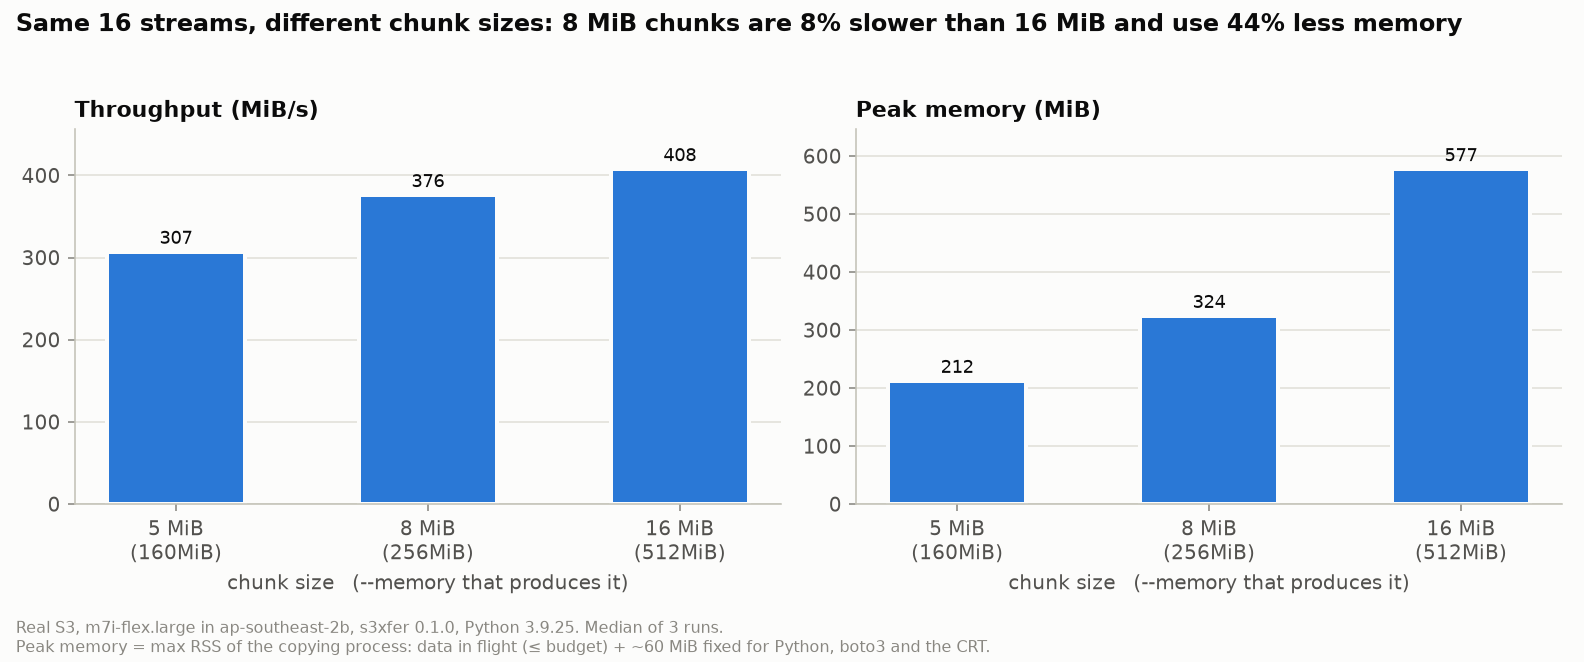
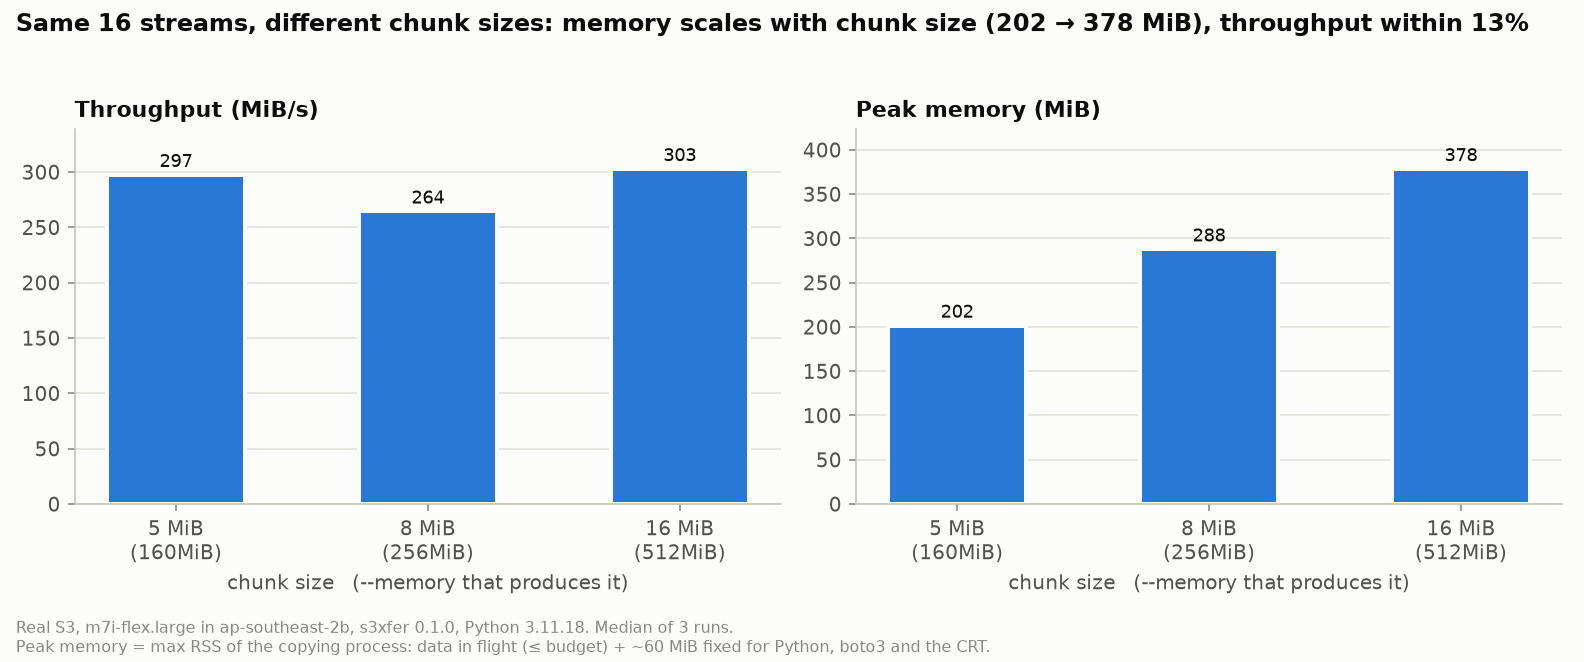
Re-run real-S3 benchmark on Python 3.11; make chart titles data-driven
Same EC2 setup (m7i-flex.large, ap-southeast-2, 3 reps), now Python 3.11.18
with boto3 1.44.9. Peak memory at --memory 256MiB: 265/277/310 MiB for
1/4/16 GiB, within budget + fixed overhead. Low-concurrency speeds matched
the 3.9 run exactly, but this host topped out near 300 MiB/s (vs ~430), and
at that ceiling chunk size barely changed throughput (within 13%).

Chunk-size and file-size chart titles are now computed from the data, and
README / README.pypi.md describe this run, noting how it differs from the
earlier one.

Claude-Session: https://claude.ai/code/session_01CWrg6V2BaktjX1BxjWWx6A

diff --git a/bench/plot_real_s3.py b/bench/plot_real_s3.py
@@ -115,11 +115,10 @@ def chunk_chart(med, meta):
     d = sorted(med("chunk"), key=lambda r: r["chunk"])
     names = [f"{r['chunk']} MiB\n({r['memory']})" for r in d]
     fig, (a, b) = plt.subplots(1, 2, figsize=(11, 4.6), dpi=144)
-    by = {r["chunk"]: r for r in d}
-    slower = 1 - by[8]["mibs"] / by[16]["mibs"]
-    leaner = 1 - by[8]["rss"] / by[16]["rss"]
-    fig.suptitle(f"Same {d[0]['streams']} streams, different chunk sizes: 8 MiB chunks are "
-                 f"{slower:.0%} slower than 16 MiB and use {leaner:.0%} less memory",
+    speeds = [r["mibs"] for r in d]
+    spread = 1 - min(speeds) / max(speeds)
+    fig.suptitle(f"Same {d[0]['streams']} streams, different chunk sizes: memory scales with chunk size "
+                 f"({d[0]['rss']:.0f} → {d[-1]['rss']:.0f} MiB), throughput within {spread:.0%}",
                  x=0.01, ha="left", fontweight="bold", color=INK, fontsize=12)
     bars(a, names, [r["mibs"] for r in d], lambda v: f"{v:.0f}")
     a.set_title("Throughput (MiB/s)")
@@ -138,7 +137,9 @@ def filesize_chart(med, meta):
     xs = list(range(len(d)))
     gib = [f"{r['file_mib'] / 1024:g} GiB" for r in d]
     fig, (a, b) = plt.subplots(1, 2, figsize=(11, 4.6), dpi=144)
-    fig.suptitle("Bigger files, same memory: peak memory doesn't depend on file size",
+    first, last = d[0], d[-1]
+    fig.suptitle(f"{last['file_mib'] // first['file_mib']}× the data, peak memory {first['rss']:.0f} → "
+                 f"{last['rss']:.0f} MiB: bounded by the budget + fixed overhead, not by file size",
                  x=0.01, ha="left", fontweight="bold", color=INK, fontsize=12)
     line(a, xs, [r["rss"] for r in d], [f"{r['rss']:.0f}" for r in d])
     budget_line(a, 256)

diff --git a/README.md b/README.md
@@ -155,19 +155,21 @@ Prefer short-lived credentials: an IAM role on EC2/ECS/Lambda, SSO, or `aws logi
 
 ## Real-S3 benchmarks
 
-Measured on an `m7i-flex.large` in `ap-southeast-2`, copying within one bucket; median of 3 runs. Reproduce with `bench/bench_real_s3.py` (see its docstring) and `bench/plot_real_s3.py`. Raw numbers: [`bench/real_s3_results.csv`](bench/real_s3_results.csv).
+Measured on an `m7i-flex.large` in `ap-southeast-2` with Python 3.11, copying within one bucket; median of 3 runs. Reproduce with `bench/bench_real_s3.py` (see its docstring) and `bench/plot_real_s3.py`. Raw numbers: [`bench/real_s3_results.csv`](bench/real_s3_results.csv).
 
-**Memory doesn't depend on file size.** 1, 4 and 16 GiB objects at `--memory 256MiB --concurrency 16` peak at 324, 325 and 330 MiB (the budget plus ~60 MiB fixed for Python, boto3 and the CRT).
+**Memory is bounded by the budget, not by file size.** 1, 4 and 16 GiB objects at `--memory 256MiB --concurrency 16` peaked at 265, 277 and 310 MiB: 16× the data, all within the budget plus ~60 MiB fixed for Python, boto3 and the CRT. (An earlier run on Python 3.9 measured 324, 325 and 330 MiB.)
 
 ![Peak memory and throughput vs file size](bench/real_s3_file_size.png)
 
-**Concurrency is bounded by the budget.** Up to 8 streams, 16 MiB chunks fit, so memory grows with each stream. Past that, chunks shrink to keep memory at the budget. Throughput peaks at 16 streams (8 MiB chunks, 378 MiB/s); at 32+ the planner hits S3's 5 MiB part minimum and caps at 25 streams, which is slower.
+**Concurrency is bounded by the budget.** Up to 8 streams, 16 MiB chunks fit, so memory grows with each stream. Past that, chunks shrink to keep memory at the budget (267–272 MiB from 16 to 64 streams). Throughput rose almost linearly to 8 streams (45 → 298 MiB/s), then stayed at 250–300 MiB/s.
 
 ![Throughput and peak memory vs concurrency at a 256 MiB budget](bench/real_s3_concurrency.png)
 
-**Chunk size trades a little speed for a lot of memory.** At 16 streams, 8 MiB chunks are 8% slower than 16 MiB and use 44% less memory; 5 MiB chunks cost 25%.
+**Chunk size mostly changes memory.** At 16 streams, 5, 8 and 16 MiB chunks peaked at 202, 288 and 378 MiB, with throughput within 13% of each other.
 
 ![Throughput and peak memory by chunk size at 16 streams](bench/real_s3_chunk_size.png)
+
+**Throughput ceilings vary by host.** Single-stream and low-concurrency results matched between runs (22.6 s for 1 GiB on one stream both times), but this run topped out near 300 MiB/s, while the earlier Python 3.9 run on the same instance type reached ~430 MiB/s and showed 5 MiB chunks 25% slower than 16 MiB. With the ceiling lower, chunk size made little difference. Benchmark on your own instance type before tuning concurrency beyond 8.
 
 ## Development
 

diff --git a/README.pypi.md b/README.pypi.md
@@ -49,7 +49,7 @@ peak memory ≈ concurrency × chunk_size × 2  ≤  budget   (+ ~60 MiB fixed f
 
 Chunks only go above 16 MiB when S3's 10,000-part limit forces it (files over ~156 GiB), or when you raise the ceiling with `--max-chunk` / `max_chunk=`, which prints a warning.
 
-Measured on real S3 (EC2 `m7i-flex.large`, `--memory 256MiB --concurrency 16`): 1, 4 and 16 GiB objects peaked at 324, 325 and 330 MiB, at 370–430 MiB/s.
+Measured on real S3 (EC2 `m7i-flex.large`, Python 3.11, `--memory 256MiB --concurrency 16`): 1, 4 and 16 GiB objects peaked at 265, 277 and 310 MiB, within the budget plus fixed overhead, at 265–280 MiB/s.
 
 ## Credentials and access
 
